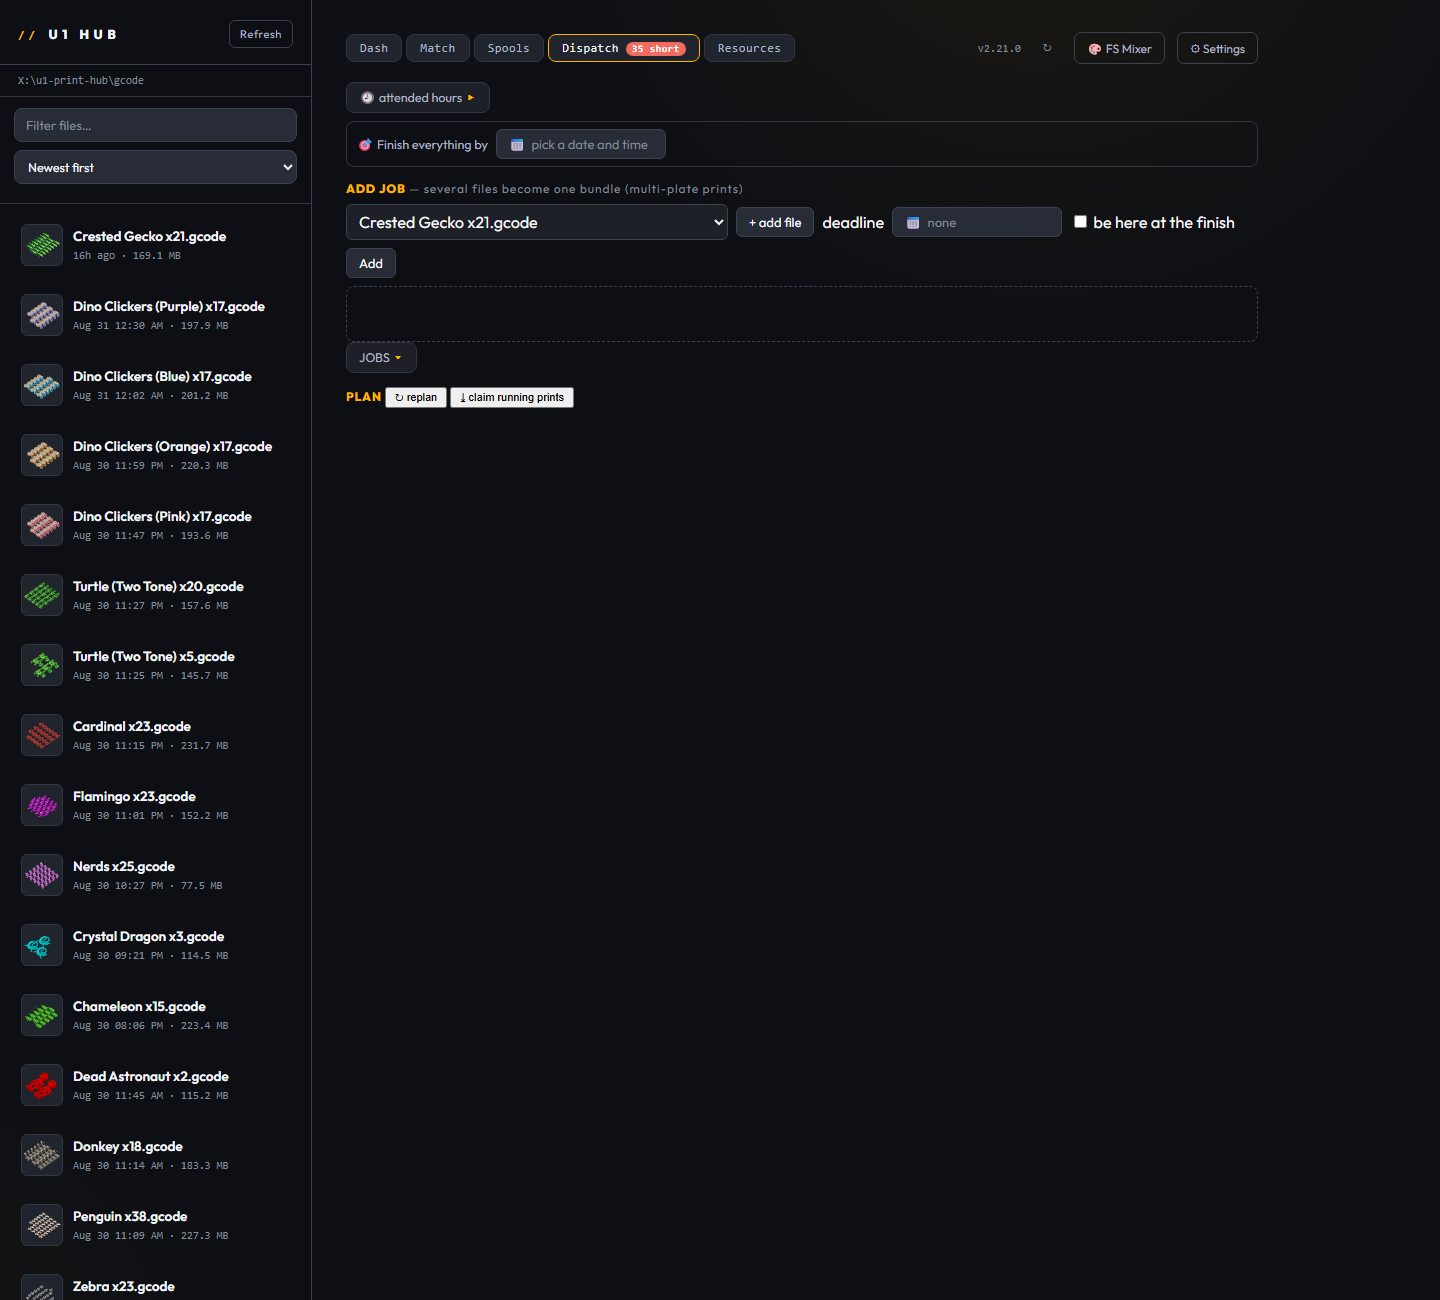
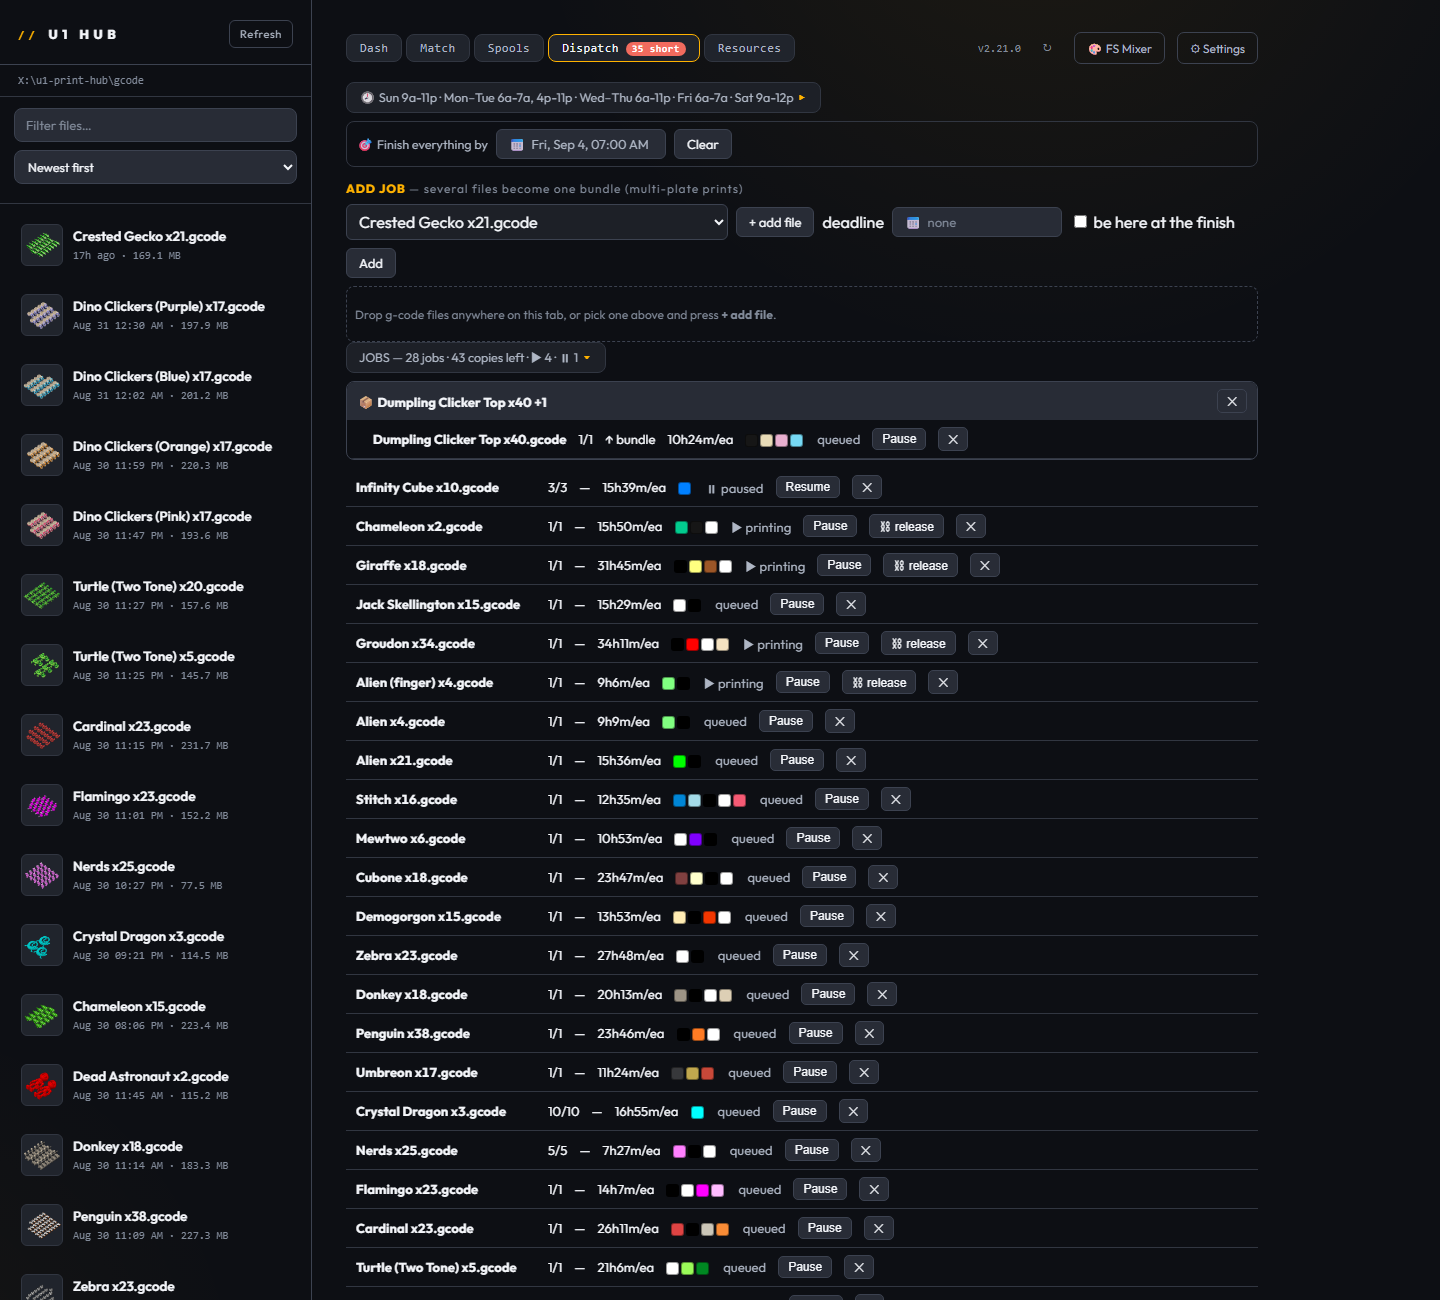
docs: reshoot the Dispatch screenshot with a populated plan
The first pass caught the Dispatch tab before its plan had rendered, so it
showed an empty form. shoot-docs.js now enters through the dashboard (so the
fleet is loaded) and waits for real plan rows before firing.

Claude-Session: https://claude.ai/code/session_01Hx9jEsRp59sDw8poVu7dZW

diff --git a/scripts/shoot-docs.js b/scripts/shoot-docs.js
@@ -35,7 +35,10 @@ const OUT = "X:\\u1-print-hub\\docs";
 // page, never a lucky timer. Text conditions are checked against innerText.
 const SHOTS = [
   { name: "dash",      file: "dashboard.png",        w: 1440, h: 1000, url: "/#dash",      ready: ".pcard .pill" },
-  { name: "dispatch",  file: "dispatch.png",         w: 1440, h: 1300, url: "/#dispatch",  ready: "#modview-dispatch canvas, #modview-dispatch .dsp-lane, #modview-dispatch [class*=dsp]" },
+  // Dispatch needs the fleet AND a rendered plan; land on the dashboard so the
+  // fleet is up, switch, then wait for actual plan rows (.dsp-grow), not just
+  // the empty form.
+  { name: "dispatch",  file: "dispatch.png",         w: 1440, h: 1300, url: "/#dash", ready: ".pcard .pill", thenView: "dispatch", thenReady: ".dsp-grow", extraMs: 2500 },
   { name: "resources", file: "resources.png",        w: 1440, h: 1300, url: "/#resources", ready: "#modview-resources .rtab td" },
   { name: "spools",    file: "spools-inventory.png", w: 1440, h: 1300, url: "/#spools",    ready: ".spoolrow" },
   // Match renders from the fleet snapshot, and the deep link lands before the
